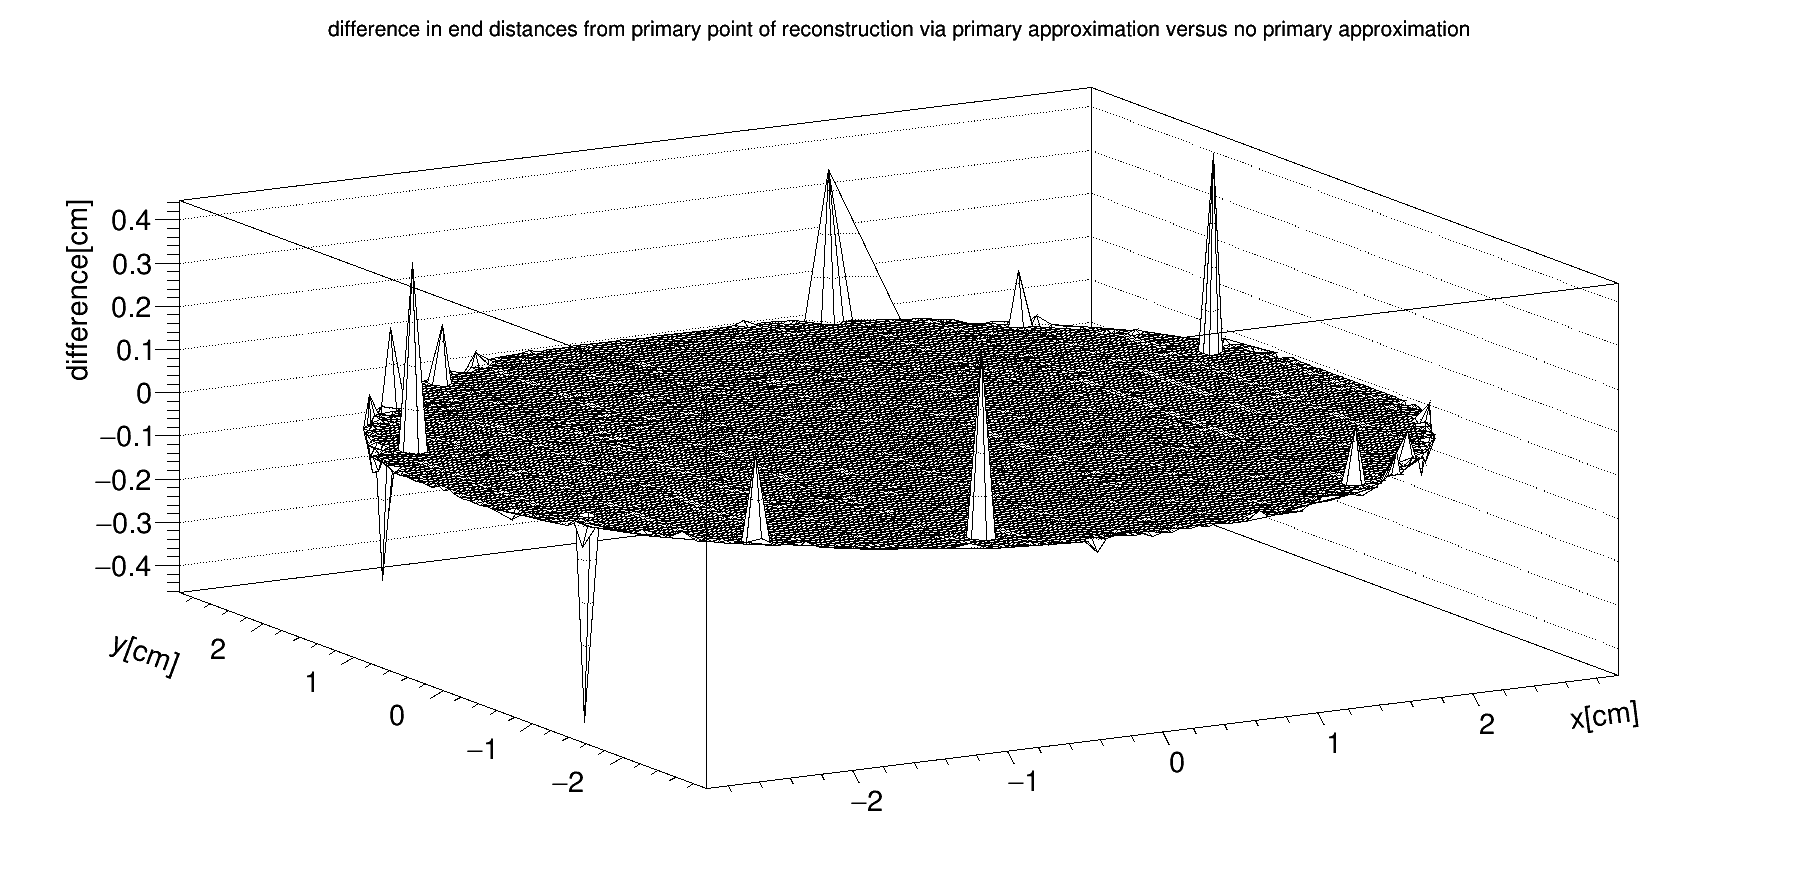
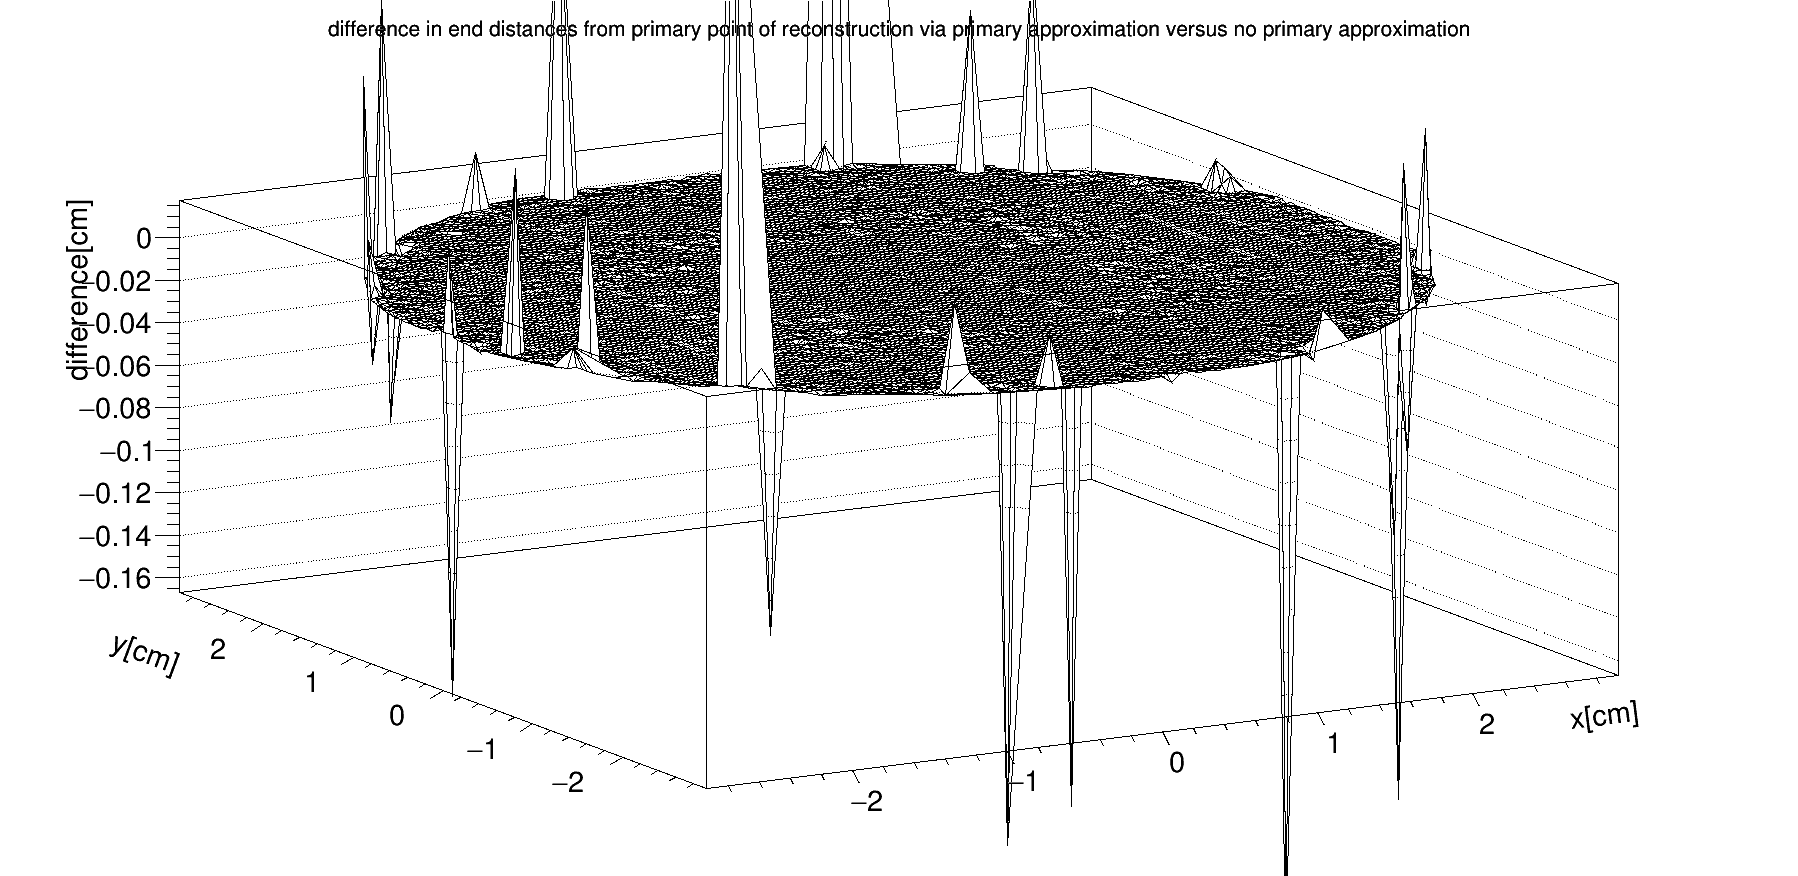
A lot of stuff

Changed region(s): [[0.1869, 0.0925, 0.8098, 0.6473], [0.0311, 0.2466, 0.0934, 0.6781]]

diff --git a/BeamMonitor/Minimize.cc b/BeamMonitor/Minimize.cc
@@ -10,6 +10,7 @@
 #include "Math/Point2D.h"
 #include <TGraph.h>
 #include <TCanvas.h>
+#include <TString.h>
 #include <TSystem.h>
 #include <TRandom3.h>
 #include <TArrow.h>
@@ -64,11 +65,12 @@ double Det_response(ROOT::Math::Polar2DVector SiPM_position, ROOT::Math::XYPoint
 
 //################################################ MAIN FUNCTION ###########################################
 
-void Minimize(){
+void Minimize(double sigma = 0){
 	int NDet = 16;
 	std::vector<ROOT::Math::Polar2DVector> SiPMs;
-
-	gSystem->Exec("mkdir -p ./plots/");
+	TString folder = Form("plots_blur_%.3f/", sigma);
+	gSystem->Exec(Form("mkdir -p ./plots_blur_%.3f/", sigma));
+	
 
 	double radius = 3.0;
 	for(int i = 0; i < NDet; i++){
@@ -89,7 +91,6 @@ void Minimize(){
 
 	int n_crash = 0;
 	double blur = 1;			//defining parameters used in minimization and signal blurring
-	double sigma = 0.001;
 
 	std::vector<std::vector<double>> signal_memory;
 	for(int i = 0; i < points.size(); i++){
@@ -184,7 +185,7 @@ void Minimize(){
 	c_grid->cd(2);
 	Secondary_grid->Draw("AP");
 	
-	c_grid->Print("plots/g_grid.png");
+	c_grid->Print(folder + "g_grid.png");
 	delete c_grid;
 
 	//################### arrow plots ################# 
@@ -208,7 +209,7 @@ void Minimize(){
 		arrow->SetLineColor(kBlue);
 		arrow->Draw();
 		}
-	c_arrow->Print("plots/g_arrow.png");
+	c_arrow->Print(folder + "g_arrow.png");
 	delete c_arrow;
 	
 	//########################################### printing residuals ###################################################
@@ -232,7 +233,7 @@ void Minimize(){
 	c_residual->cd(2);
 	residuals_y->Draw("TRI");
 	
-	c_residual->Print("plots/residuals.png");
+	c_residual->Print(folder + "residuals.png");
 	delete c_residual;
 
 	TH2D* h_x_residuals = new TH2D("h_x_residuals", "x Residuals;x [cm];y[cm];residual_x [cm]",
@@ -254,7 +255,7 @@ void Minimize(){
 	c_h_residuals->cd(2);
 	h_y_residuals->Draw("colz");
 	
-	c_h_residuals->Print("plots/c_h_residuals.png");
+	c_h_residuals->Print(folder + "c_h_residuals.png");
 	delete c_h_residuals;
 	
 
@@ -293,7 +294,7 @@ void Minimize(){
 	c_h_projections->cd(4);
 	h_yy_projection->Draw("hist");
 	
-	c_h_projections->Print("plots/c_h_projections.png");
+	c_h_projections->Print(folder + "c_h_projections.png");
 	delete c_h_projections;
 	TH1D* h_xx2_projection = new TH1D("h_xx2_projection", "x^2 residual projection on x axis;x [cm]; x^2 residual",
 						n_enum + 1, -radius, radius);
@@ -328,7 +329,7 @@ void Minimize(){
 	c_h2_projections->cd(4);
 	h_yy2_projection->Draw("hist");
 	
-	c_h2_projections->Print("plots/c_h2_projections.png");
+	c_h2_projections->Print(folder + "c_h2_projections.png");
 	delete c_h2_projections;
 
 	//###
@@ -353,7 +354,7 @@ void Minimize(){
 
 	h_ry->Draw("colz");
 
-	c_res->Print("plots/h_res.png");	
+	c_res->Print(folder + "h_res.png");	
 	
 	delete c_res;
 
@@ -364,7 +365,7 @@ void Minimize(){
 		h_chi2->SetBinContent(i+1, chi2_values[i]);	
 	}//end loop
 	h_chi2->Draw("hist");
-	c_chi2->Print("plots/h_chi2.png");
+	c_chi2->Print(folder + "h_chi2.png");
 	delete c_chi2;
 
 
@@ -380,7 +381,7 @@ void Minimize(){
 	g_dist->SetName("g_dist");
 	g_dist->SetTitle("distance of reconstructed point from its primary point;x[cm];y[cm];deviation[cm]"); 
 	g_dist->Draw("TRI");
-	c_dist->Print("plots/g_dist.png");
+	c_dist->Print(folder + "g_dist.png");
 	delete c_dist;
 
 	TCanvas* c_xy_chi2 = new TCanvas("", "", 1800, 900);
@@ -404,7 +405,7 @@ void Minimize(){
 	gPad->SetRightMargin(0.15);
 	gStyle->SetOptStat(0);
 	h_xy_chi2->Draw("colz");
-	c_xy_chi2->Print("plots/c_xy_chi2.png");	
+	c_xy_chi2->Print(folder + "c_xy_chi2.png");	
 	delete c_xy_chi2;
 
 	//################## COMPARISON OF WEIGHTED SUM ###########################
@@ -431,7 +432,7 @@ void Minimize(){
 
 	c_comp->cd(2);
 	Secondary_grid->Draw("ap*");
-	c_comp->Print("plots/g_comp.png");
+	c_comp->Print(folder + "g_comp.png");
 	delete c_comp;
 	
 	// ############## NEW MINIMIZATION? APPROXIMATE STARTING POSITION USING WEIGHTED CHARGE ###################
@@ -514,7 +515,7 @@ void Minimize(){
 	
 	TCanvas* c_new = new TCanvas ("", "", 1800, 900);
 	g_new->Draw("TRI");
-	c_new->Print("plots/c_new.png");
+	c_new->Print(folder + "c_new.png");
 	delete c_new;
 	
 	TCanvas* c_dist2 = new TCanvas("", "", 1800, 900);
@@ -526,6 +527,6 @@ void Minimize(){
 		g_dist2->SetPoint(i, points[i].X(), points[i].Y(), deviation);
 		}//end of loop	
 	g_dist2->Draw("TRI");
-	c_dist2->Print("plots/c_dist_new.png");
+	c_dist2->Print(folder + "c_dist_new.png");
 
 	} //end of code

diff --git a/BeamMonitor/T1_rec.cc b/BeamMonitor/T1_rec.cc
@@ -3,10 +3,9 @@
 #include "Math/Functor.h"
 #include "math.h"
 
+#include <TCanvas.h>
 #include "TFile.h"
 #include "TH2D.h"
-#include "Math/Vector2D.h"
-#include "Math/Point2D.h"
 #include <TGraph.h>
 #include <TSystem.h>
 #include <TRandom3.h>
@@ -67,12 +66,12 @@ void T1_rec(){
 	
 	TRandom3 rand;
 	
-	vector<array<double, 2>> rec_coordinates;  //data arrays definition
+	vector<array<double, 2>> new_coordinates;  //data arrays definition
 	std::vector<double> chi2_values;
 	
 
 
-	int n_enum = 100;
+	int n_enum = 25;
 	auto points = get_grid(size, n_enum);	//Generating grid
 
 
@@ -118,8 +117,8 @@ void T1_rec(){
 
 		minimizer->SetVariable(0, "x", 0.0, 0.001);
 		minimizer->SetVariable(1, "y", 0.0, 0.001);
-		minimizer->SetVariableLimits(0, -3, 3);
-		minimizer->SetVariableLimits(1, -3, 3);
+		minimizer->SetVariableLimits(0, -size/2.0, size/2.0);
+		minimizer->SetVariableLimits(1, -size/2.0, size/2.0);
 				
 		minimizer->SetMaxFunctionCalls(10000);		
 
@@ -138,17 +137,61 @@ void T1_rec(){
 		//cout << "Best x: " << results[0] << "\t best y: " << results[1] << endl;    
 		
 		std::array<double, 2> help_array = {{results[0], results[1]}};
-		rec_coordinates.push_back(help_array);
+		new_coordinates.push_back(help_array);
 
 		
 	}	//end of event loop
 
 //##################################################### drawing plots #####################################################
 
-	cout << "Minimization did not converge " << n_crash << " times out of " << rec_coordinates.size() << "points"  << endl;
+	cout << "Minimization did not converge " << n_crash << " times out of " << new_coordinates.size() << "points"  << endl;
+	
+	
+	TGraph* Primary_grid = new TGraph(points.size());
+	Primary_grid->SetName("Primary_grid");
+	Primary_grid->SetTitle("Primary grid;x [cm];y [cm]");
+	for(int i = 0; i < points.size(); i++){
+		Primary_grid->SetPoint(i, points[i][0], points[i][1]);
+	}
+	
+	TGraph* Secondary_grid = new TGraph(new_coordinates.size());
 
+	Secondary_grid->SetName("Secondary_grid");
+	Secondary_grid->SetTitle("Grid after reconstruction through minimization;x [cm]; y[cm]");
+	for(int i = 0; i < new_coordinates.size(); i++){
+		Secondary_grid->SetPoint(i, new_coordinates[i][0], new_coordinates[i][1]);
+	}
+	
+	TCanvas* c_grid = new TCanvas("", "", 1800, 900);
+	c_grid->Divide(2);
+	c_grid->cd(1);
+	Primary_grid->Draw("AP*");	
+	c_grid->cd(2);
+	Secondary_grid->Draw("AP*");
+	
+	c_grid->Print("T1_plots/g_grid.png");
+	delete c_grid;
+	
+	// ################### ARROW CANVAS #########################
+	TCanvas* c_arrow = new TCanvas("", "", 1800, 900);
 	
 	
+	TGraph* g_arrow = new TGraph(new_coordinates.size());
+	
+	g_arrow->SetName("g_arrow");
+	g_arrow->SetTitle("point movement after reconstruction;x [cm]; y[cm]");
+
+	for(int i = 0; i < new_coordinates.size();i++){
+		g_arrow->SetPoint (i, new_coordinates[i][0], new_coordinates[i][1]);
+	}
+	g_arrow->Draw("ap*");
+	for (int i = 0 ; i < points.size(); i++){
+		TArrow* arrow = new TArrow(points[i][0], points[i][1], new_coordinates[i][0], new_coordinates[i][1], 0.005, "|>");
+		arrow->SetLineColor(kBlue);
+		arrow->Draw();
+		}
+	c_arrow->Print("T1_plots/g_arrow.png");
+	delete c_arrow;
 
 
 
